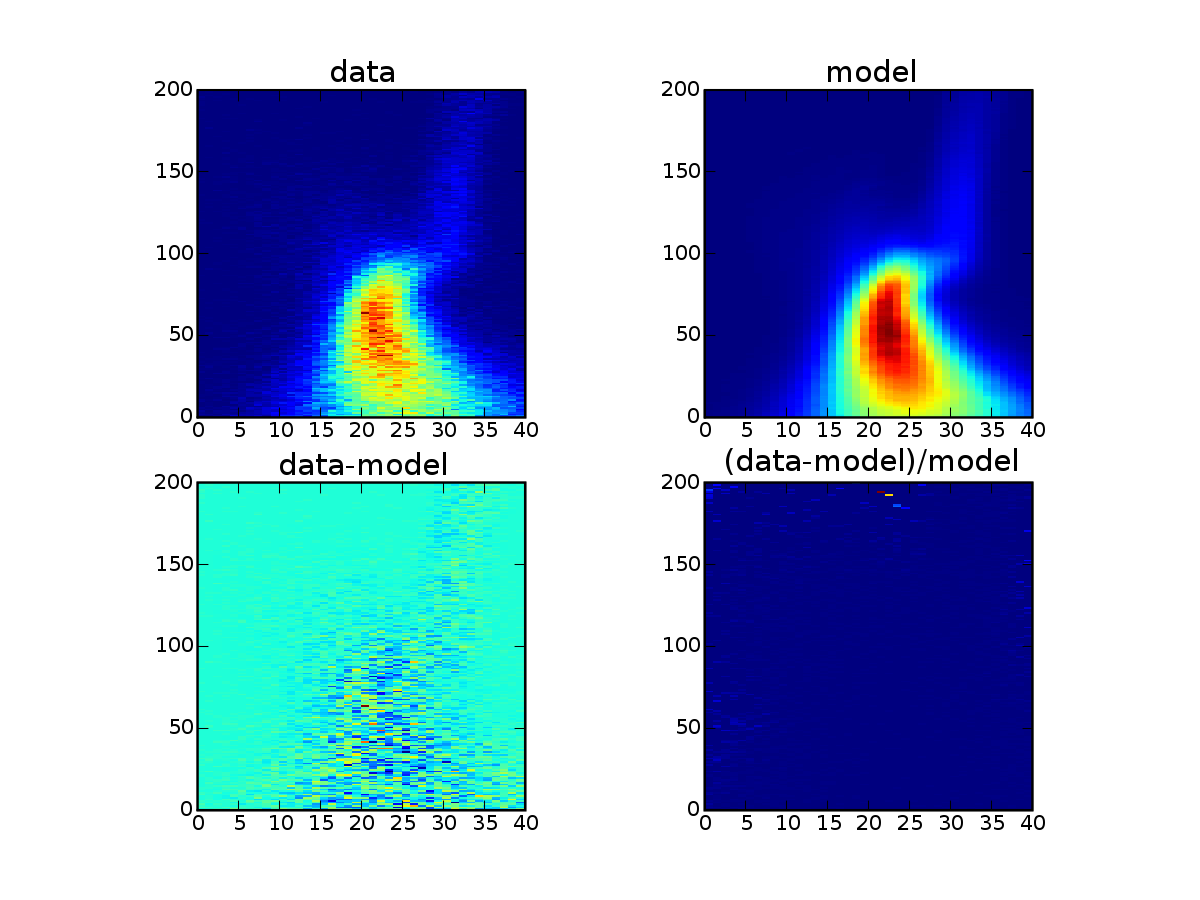
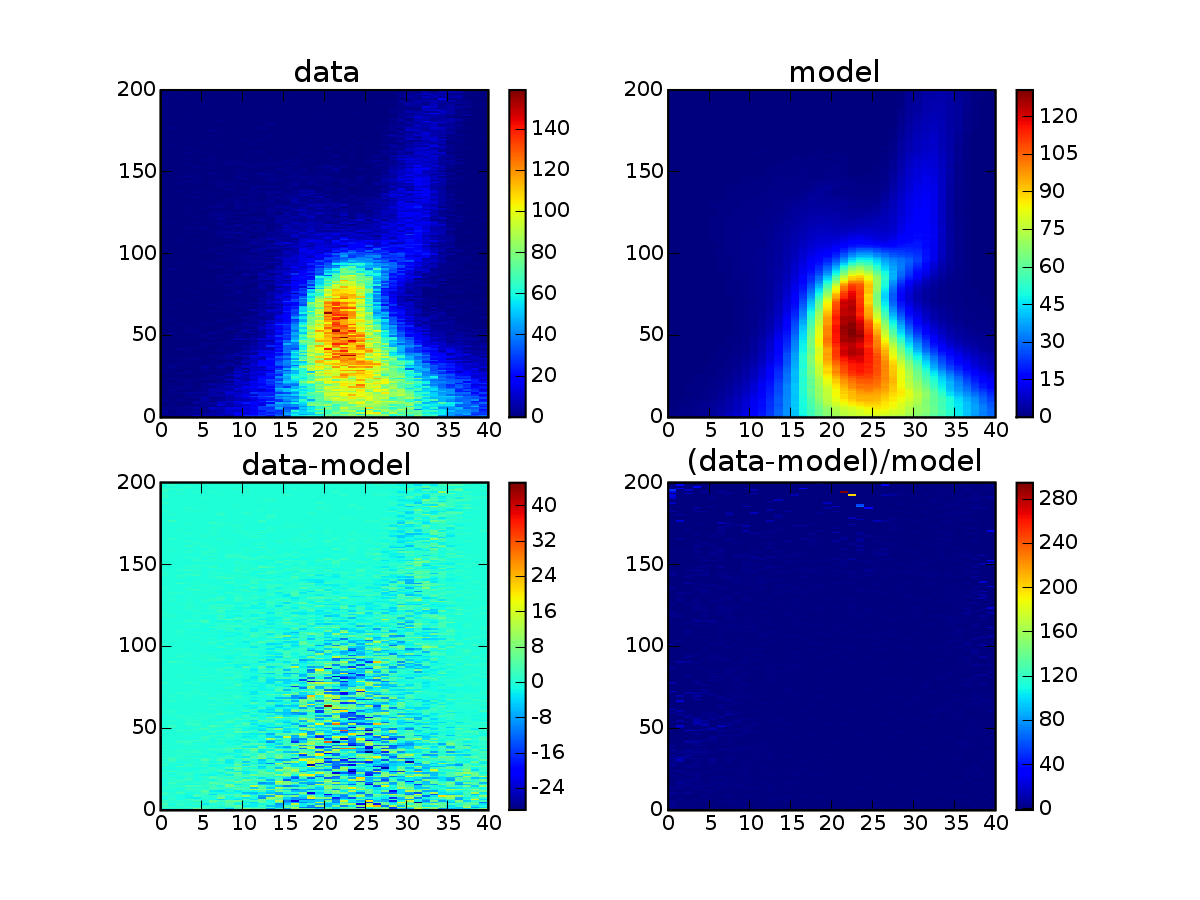
graph updated

diff --git a/calc/halobfgs-automatic/prot.py b/calc/halobfgs-automatic/prot.py
@@ -10,20 +10,27 @@ isos = iso.readisos(isodir+"/117/halo")
 
 isow = eval(open("bestfit117").readline())
 model = iso.computeCMD(isow,isos)
-model=utils.normalize(model,sum(data.flat))
+model = utils.normalize(model,sum(data.flat))
 
 def plot_residuals(d,m,aspect=0.2):
+    """
+    todo: the same color range for both data and model. the rediduals are ok
+    """
     import pylab
+    pylab.figure()
     pylab.subplot(221)
     pylab.imshow(d,origin='lower',interpolation="nearest",aspect=aspect)
     pylab.title("data")
+    pylab.colorbar()
     pylab.subplot(222)
     pylab.imshow(m,origin='lower',interpolation="nearest",aspect=aspect)
     pylab.title("model")
+    pylab.colorbar()
     pylab.subplot(223)
     residuals = d-m
     pylab.imshow(residuals,origin='lower',interpolation="nearest",aspect=aspect)
     pylab.title("data-model")
+    pylab.colorbar()
     pylab.subplot(224)
     residuals = d-m
     residuals /= m
@@ -31,10 +38,24 @@ def plot_residuals(d,m,aspect=0.2):
     pylab.title("(data-model)/model")
     #pylab.cool()
     #pylab.savefig("graph.eps")
+    pylab.colorbar()
     pylab.savefig("graph.png")
+    #pylab.show()
+
+def plot_weights(w,isos,aspect=0.4):
+    graph=iso.computefehage(w,isos)
+    import pylab
+    pylab.figure()
+    pylab.imshow(graph,origin='lower',interpolation="nearest",aspect=aspect)
+    pylab.title("isochrones weights")
+    #pylab.cool()
+    #pylab.savefig("graph.eps")
+    pylab.colorbar()
+    pylab.savefig("graph-weights.png")
     #pylab.show()
 
 
 print "likelihood: %r, toms: %r\n"%(utils.loglikelihood(model,data),
     utils.tomslikelihood(model,data))
 plot_residuals(data,model)
+plot_weights(isow,isos)
